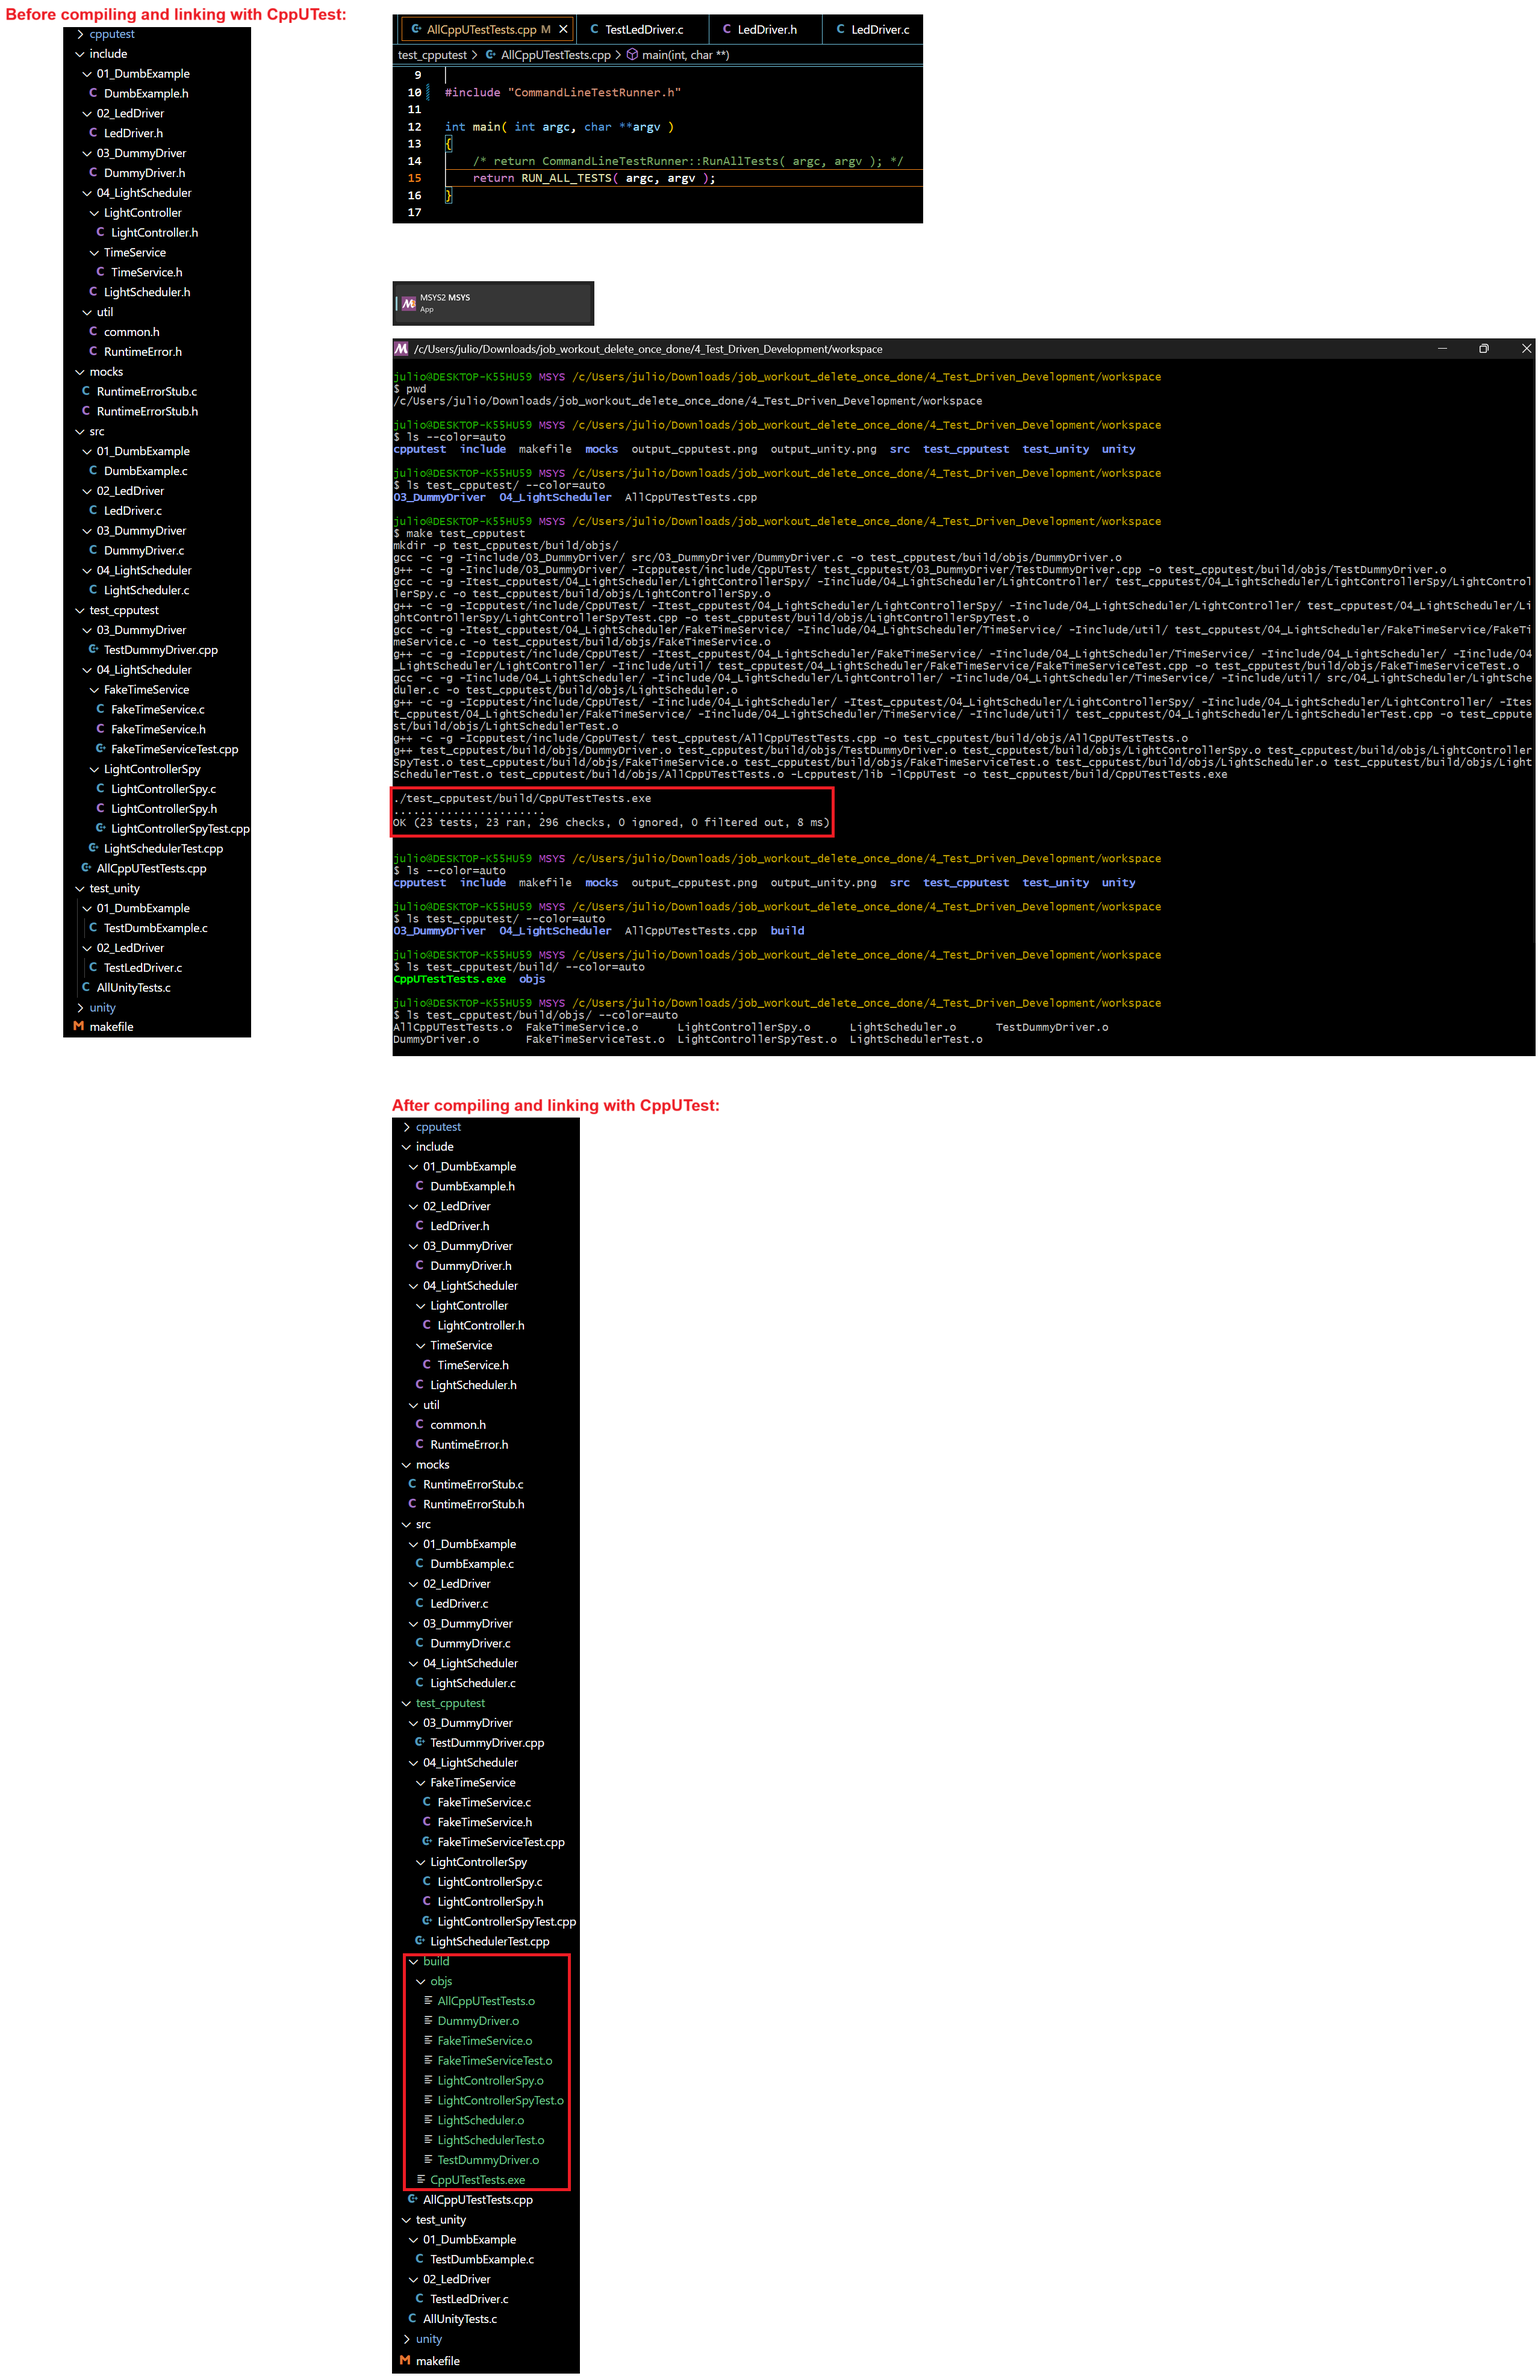
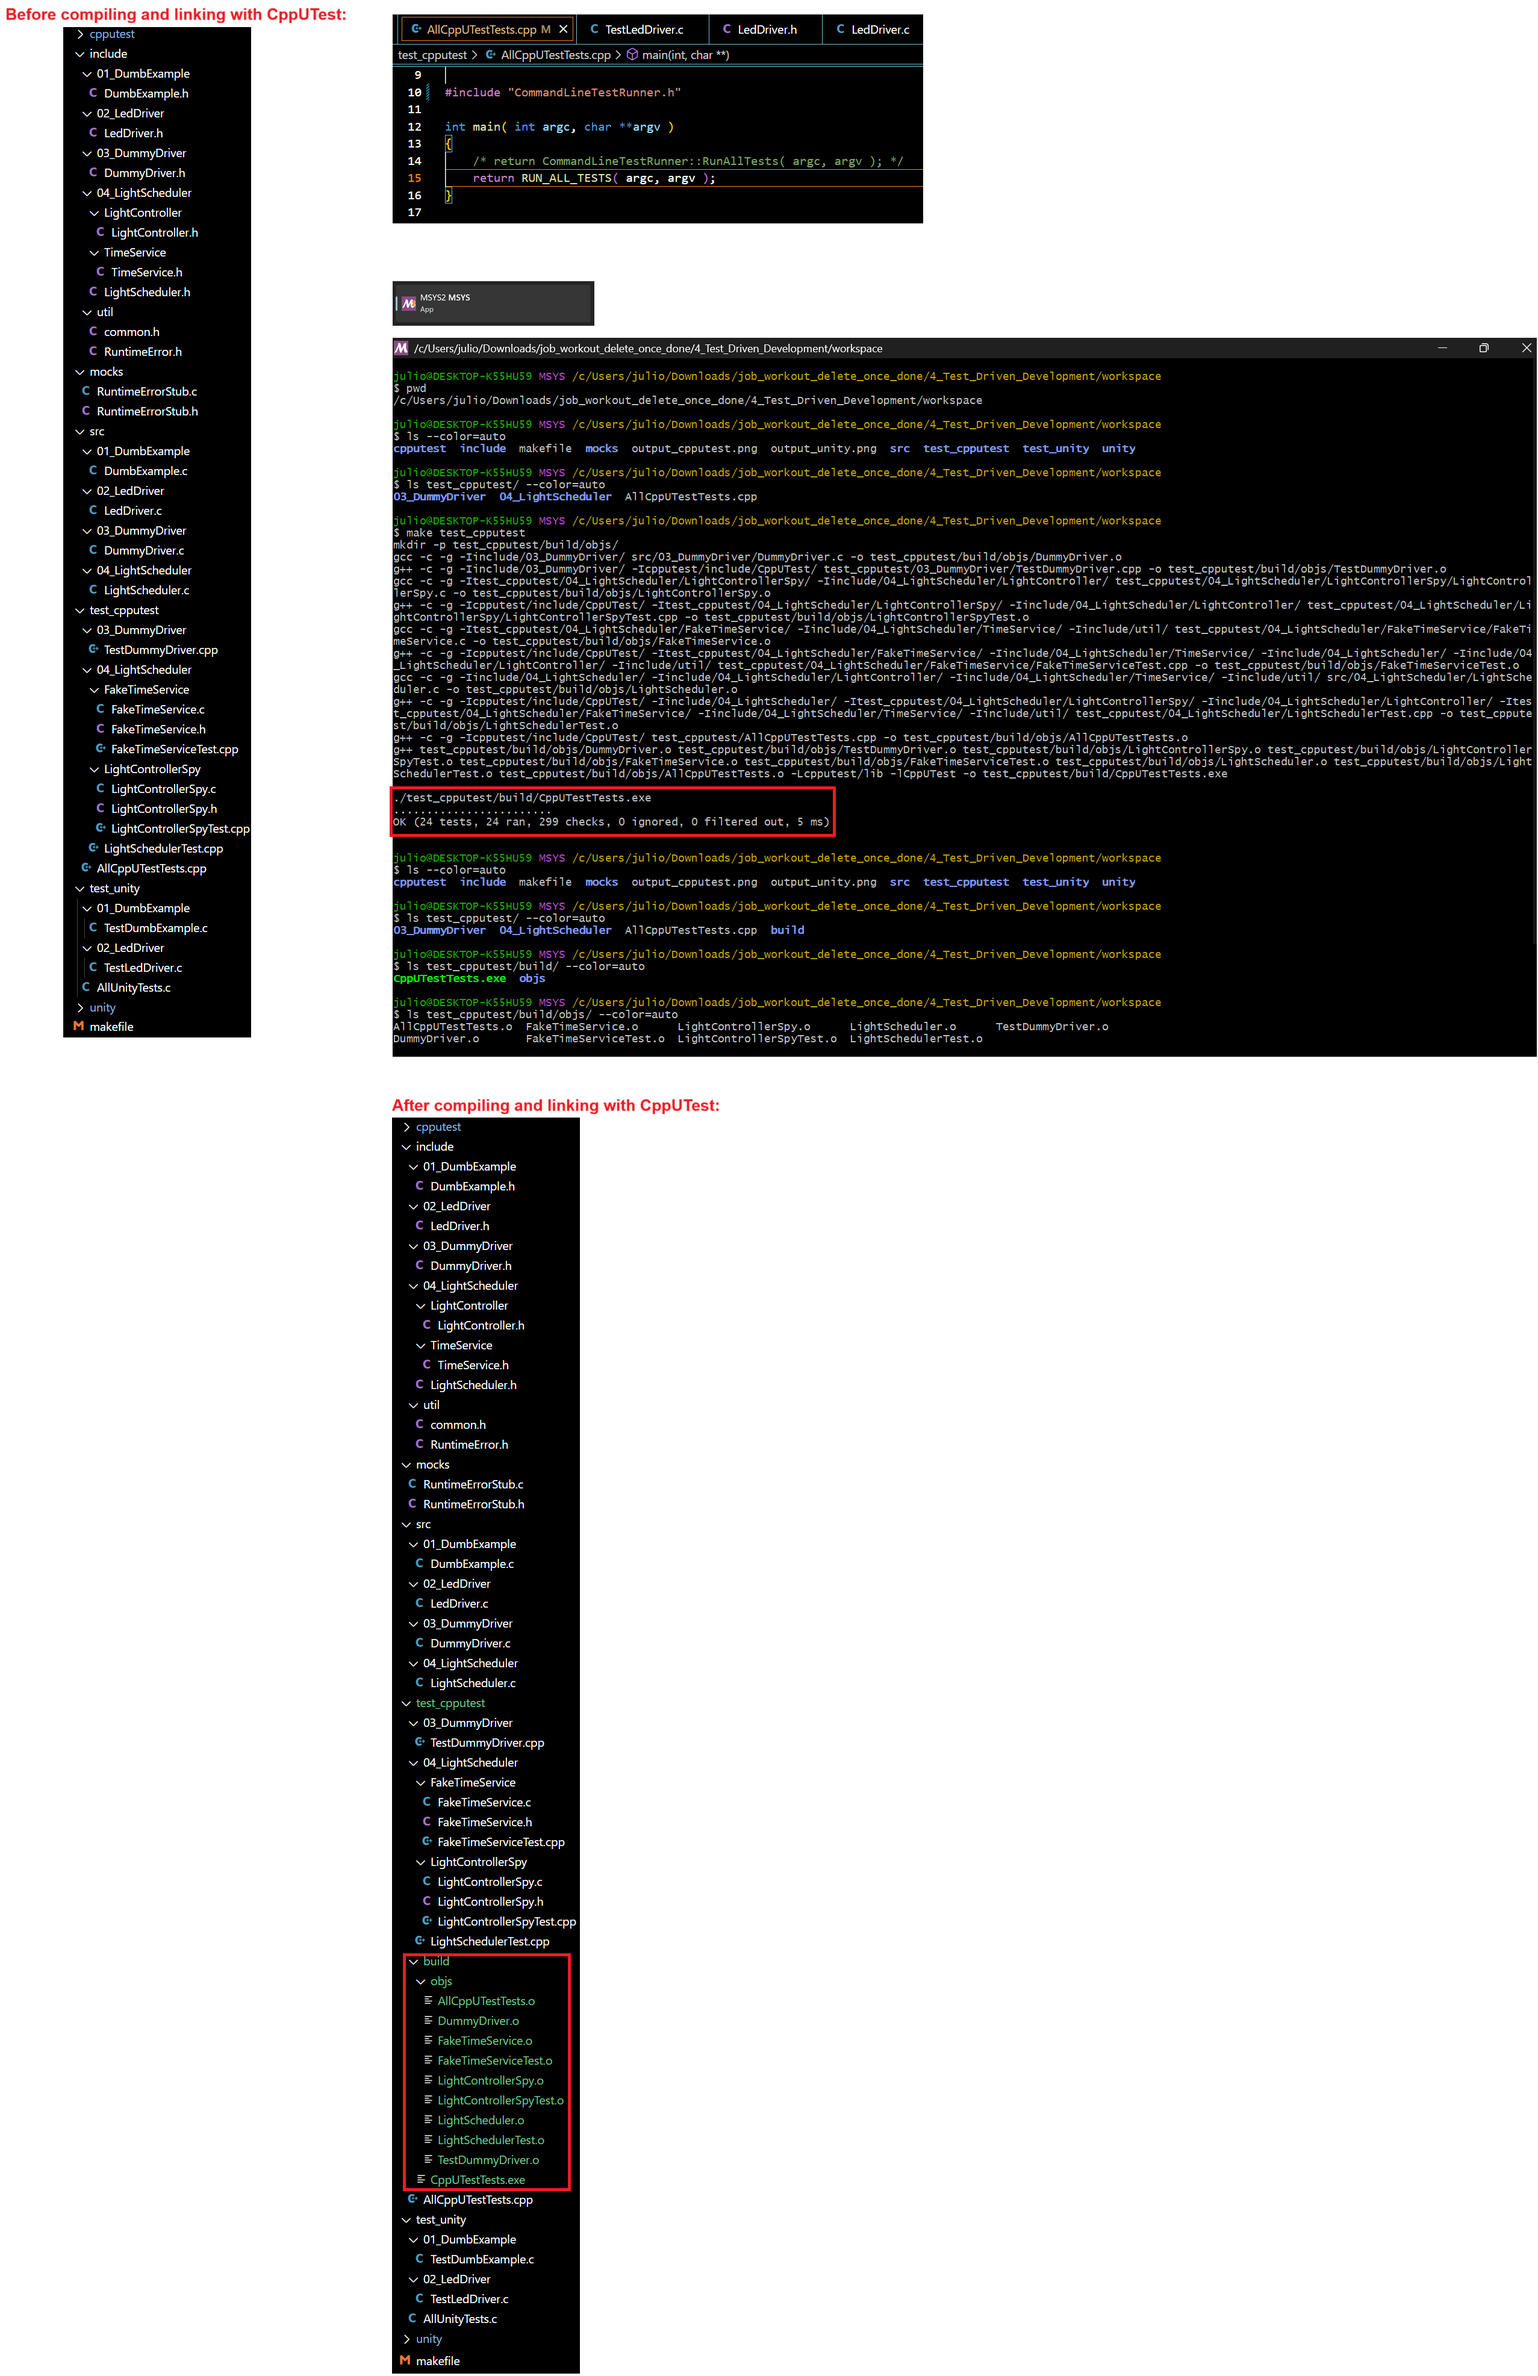
Add LightScheduler AcceptsValidLightIds test

Changed region(s): [[0.2475, 0.1559, 1.0, 0.4364]]

diff --git a/test_cpputest/04_LightScheduler/LightSchedulerTest.cpp b/test_cpputest/04_LightScheduler/LightSchedulerTest.cpp
@@ -462,3 +462,19 @@ TEST( LightScheduler, RemoveRecyclesScheduledSlot )
        one slot available to schedule this event, so the expected result is OK */
     LONGS_EQUAL( LS_OK, LightScheduler_ScheduleTurnOn( 13, MONDAY, 1000 ) );
 }
+
+TEST( LightScheduler, AcceptsValidLightIds )
+{
+    /* This test schedules only valid light IDs to turn on.
+       Since there's enough scheduled event slots and the IDs are valid,
+       the expected result is OK */
+
+    /* schedule light ID 0 to turn on  */
+    LONGS_EQUAL( LS_OK, LightScheduler_ScheduleTurnOn( 0, MONDAY, 600 ) );
+
+    /* schedule light ID 15 to turn on  */
+    LONGS_EQUAL( LS_OK, LightScheduler_ScheduleTurnOn( 15, MONDAY, 600 ) );
+
+    /* schedule light ID 31 to turn on  */
+    LONGS_EQUAL( LS_OK, LightScheduler_ScheduleTurnOn( 31, MONDAY, 600 ) );
+}
